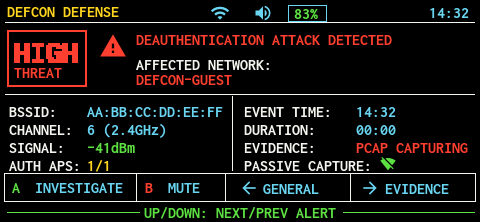
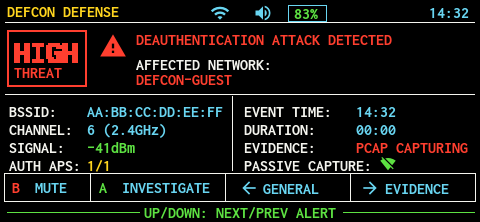
fix(pager): put B hints left and A hints right to match buttons
The Pager's red B button is on the left and green A on the right, but
every footer drew A first. Swap the hint slots on General, Threat,
Evidence and Evidence Detail, widen the A cells on Threat/Evidence so
INVESTIGATE and DETAILS stay clipped inside their panels, add a test
for the B-left/A-right order, and regenerate the containment previews.

Changed region(s): [[0.0, 0.8108, 0.4375, 0.8919]]

diff --git a/pineapple-pager/src/user/general/DEFCON_DEFENSE/ui/main.go b/pineapple-pager/src/user/general/DEFCON_DEFENSE/ui/main.go
@@ -53,6 +53,11 @@ const (
 	passiveCaptureLabel   = "PASSIVE CAPTURE:"
 	passiveCaptureLabelX  = 244
 	passiveCaptureIconGap = 8
+
+	// Footer dividers between the B (left) and A (right) hint cells; B is the
+	// left physical button, so its hint occupies the narrower leading cell.
+	threatFooterSplitX   = 90
+	evidenceFooterSplitX = 72
 )
 
 var (
@@ -1043,10 +1048,10 @@ func (a *app) renderGeneral(img *image.RGBA, s liveState) {
 		drawTextRightBox(img, image.Rect(320, y[i], 453, y[i]+22), y[i]+3, row.right, fg, i == a.generalSelected)
 	}
 	hLine(img, 9, 471, 188, cyan2)
-	drawText(img, 14, 199, "A", green, true, 1)
-	drawText(img, 35, 199, "OPEN", white, true, 1)
-	drawText(img, 145, 199, "B", red, true, 1)
-	drawText(img, 165, 199, "EXIT", white, true, 1)
+	drawText(img, 14, 199, "B", red, true, 1)
+	drawText(img, 35, 199, "EXIT", white, true, 1)
+	drawText(img, 145, 199, "A", green, true, 1)
+	drawText(img, 165, 199, "OPEN", white, true, 1)
 	drawText(img, 263, 199, "LEFT/RIGHT", yellow, true, 1)
 	drawText(img, 386, 199, "PAGE", white, true, 1)
 }
@@ -1115,11 +1120,11 @@ func (a *app) renderThreat(img *image.RGBA, s liveState) {
 	a.renderer.drawIcon(img, passiveIconX, 156, "\ue1da", 16, green)
 
 	stroke(img, image.Rect(4, 173, 476, 202), 1, white)
-	for _, x := range []int{136, 225, 350} {
+	for _, x := range []int{threatFooterSplitX, 225, 350} {
 		vLine(img, x, 173, 202, white)
 	}
-	drawButtonHint(img, 12, 180, "A", "INVESTIGATE", cyan)
-	drawButtonHint(img, 145, 180, "B", "MUTE", cyan)
+	drawButtonHintBox(img, image.Rect(5, 174, threatFooterSplitX, 201), 12, 180, 23, "B", "MUTE", cyan)
+	drawButtonHintBox(img, image.Rect(threatFooterSplitX+1, 174, 225, 201), threatFooterSplitX+9, 180, 23, "A", "INVESTIGATE", cyan)
 	a.renderer.drawIcon(img, 239, 178, "\ue5c4", 20, cyan)
 	drawText(img, 263, 181, "GENERAL", cyan, true, 1)
 	a.renderer.drawIcon(img, 360, 178, "\ue5c8", 20, cyan)
@@ -1176,12 +1181,11 @@ func (a *app) renderEvidence(img *image.RGBA, s liveState) {
 	hLine(img, 4, 476, 164, cyan2)
 	drawText(img, 11, 174, "DOWNLOAD VIA VIRTUAL PAGER", green, true, 1)
 	stroke(img, image.Rect(4, 190, 476, 219), 1, cyan2)
-	for _, x := range []int{86, 163, 241, 323, 402} {
+	for _, x := range []int{evidenceFooterSplitX, 163, 241, 323, 402} {
 		vLine(img, x, 190, 219, cyan2)
 	}
-	drawTextBox(img, image.Rect(5, 191, 85, 218), 9, 197, "A", green, true, 1)
-	drawTextBox(img, image.Rect(5, 191, 85, 218), 26, 197, "DETAILS", white, true, 1)
-	drawButtonHint(img, 94, 197, "B", "BACK", white)
+	drawButtonHintBox(img, image.Rect(5, 191, evidenceFooterSplitX, 218), 9, 197, 17, "B", "BACK", white)
+	drawButtonHintBox(img, image.Rect(evidenceFooterSplitX+1, 191, 163, 218), evidenceFooterSplitX+8, 197, 17, "A", "DETAILS", white)
 	a.renderer.drawIcon(img, 171, 195, "\ue5c4", 18, cyan)
 	drawText(img, 194, 198, "PAGE", white, true, 1)
 	a.renderer.drawIcon(img, 248, 195, "\ue5c8", 18, cyan)
@@ -1213,10 +1217,10 @@ func (a *app) renderEvidenceDetail(img *image.RGBA, s liveState) {
 	}
 	drawMetricWide(img, 12, 156, "SHA-256:", trimCells(hash, 34), yellow)
 	hLine(img, 4, 476, 183, cyan2)
-	drawText(img, 11, 194, "A", green, true, 1)
-	drawText(img, 30, 194, "VERIFY SHA-256", white, true, 1)
-	drawText(img, 201, 194, "B", red, true, 1)
-	drawText(img, 220, 194, "BACK", white, true, 1)
+	drawText(img, 11, 194, "B", red, true, 1)
+	drawText(img, 30, 194, "BACK", white, true, 1)
+	drawText(img, 90, 194, "A", green, true, 1)
+	drawText(img, 109, 194, "VERIFY SHA-256", white, true, 1)
 	drawText(img, 289, 194, "DOWNLOAD: VIRTUAL PAGER", cyan, true, 1)
 }
 
@@ -1358,13 +1362,14 @@ func drawMetricWide(img *image.RGBA, x, y int, label, value string, valueColor c
 	drawText(img, x+145, y, trimCells(value, 39), valueColor, true, 1)
 }
 
-func drawButtonHint(img *image.RGBA, x, y int, key, label string, labelColor color.RGBA) {
+// drawButtonHintBox draws a key/label pair clipped to its footer cell.
+func drawButtonHintBox(img *image.RGBA, box image.Rectangle, x, y, labelOffset int, key, label string, labelColor color.RGBA) {
 	keyColor := green
 	if key == "B" {
 		keyColor = red
 	}
-	drawText(img, x, y, key, keyColor, true, 1)
-	drawText(img, x+23, y, label, labelColor, true, 1)
+	drawTextBox(img, box, x, y, key, keyColor, true, 1)
+	drawTextBox(img, box, x+labelOffset, y, label, labelColor, true, 1)
 }
 
 func fill(img *image.RGBA, rect image.Rectangle, c color.RGBA) {

diff --git a/pineapple-pager/src/user/general/DEFCON_DEFENSE/ui/main_test.go b/pineapple-pager/src/user/general/DEFCON_DEFENSE/ui/main_test.go
@@ -320,15 +320,51 @@ func TestPanelTextDoesNotOverwriteBorders(t *testing.T) {
 
 	a.screen = screenThreat
 	threat := a.render(state)
-	for _, x := range []int{4, 136, 225, 350, 475} {
+	for _, x := range []int{4, threatFooterSplitX, 225, 350, 475} {
 		assertVerticalColor(t, threat, x, 173, 202, white)
 	}
 
 	a.screen = screenEvidence
 	evidence := a.render(state)
-	for _, x := range []int{4, 86, 163, 241, 323, 402, 475} {
+	for _, x := range []int{4, evidenceFooterSplitX, 163, 241, 323, 402, 475} {
 		assertVerticalColor(t, evidence, x, 190, 219, cyan2)
 	}
+}
+
+func TestFooterHintsMatchPhysicalButtonSides(t *testing.T) {
+	a := &app{renderer: newRenderer("")}
+	state := previewState()
+	for _, tc := range []struct {
+		name   string
+		screen screenKind
+		y1, y2 int
+	}{
+		{"general", screenGeneral, 190, 222},
+		{"threat", screenThreat, 174, 202},
+		{"evidence", screenEvidence, 191, 219},
+		{"evidence detail", screenEvidenceDetail, 184, 222},
+	} {
+		a.screen = tc.screen
+		img := a.render(state)
+		bX, aX := firstColumnWith(img, red, tc.y1, tc.y2), firstColumnWith(img, green, tc.y1, tc.y2)
+		if bX < 0 || aX < 0 {
+			t.Fatalf("%s footer missing hint keys: B x=%d, A x=%d", tc.name, bX, aX)
+		}
+		if bX >= aX {
+			t.Fatalf("%s footer draws B at x=%d, not left of A at x=%d", tc.name, bX, aX)
+		}
+	}
+}
+
+func firstColumnWith(img *image.RGBA, want color.RGBA, y1, y2 int) int {
+	for x := 0; x < screenWidth; x++ {
+		for y := y1; y < y2; y++ {
+			if img.RGBAAt(x, y) == want {
+				return x
+			}
+		}
+	}
+	return -1
 }
 
 func assertVerticalColor(t *testing.T, img *image.RGBA, x, y1, y2 int, want color.RGBA) {
